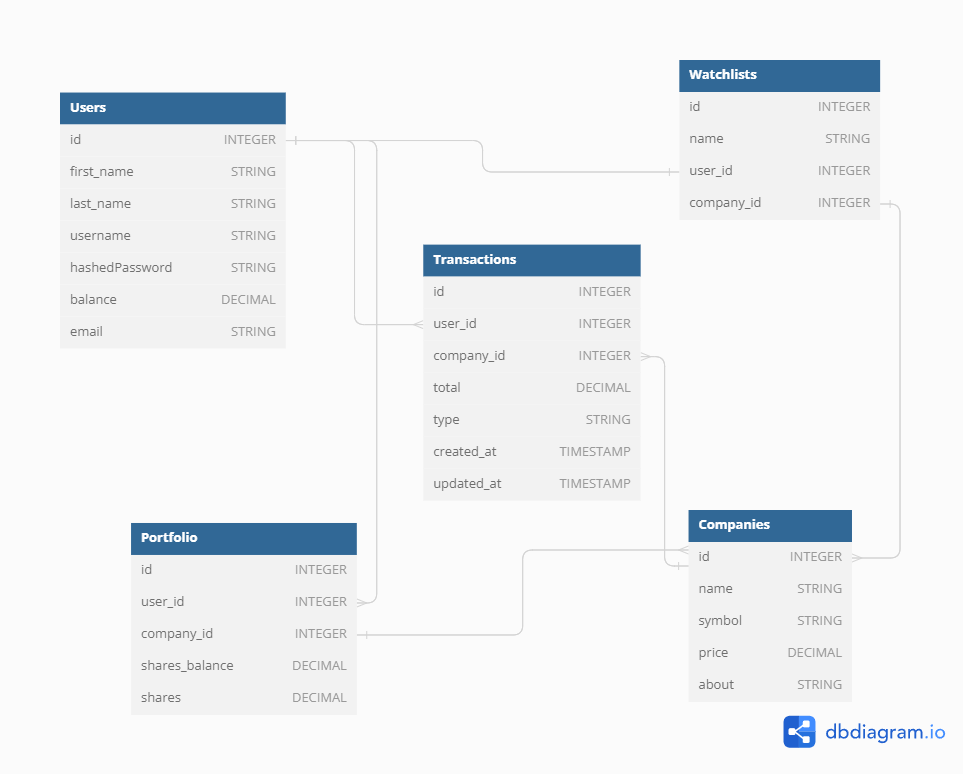
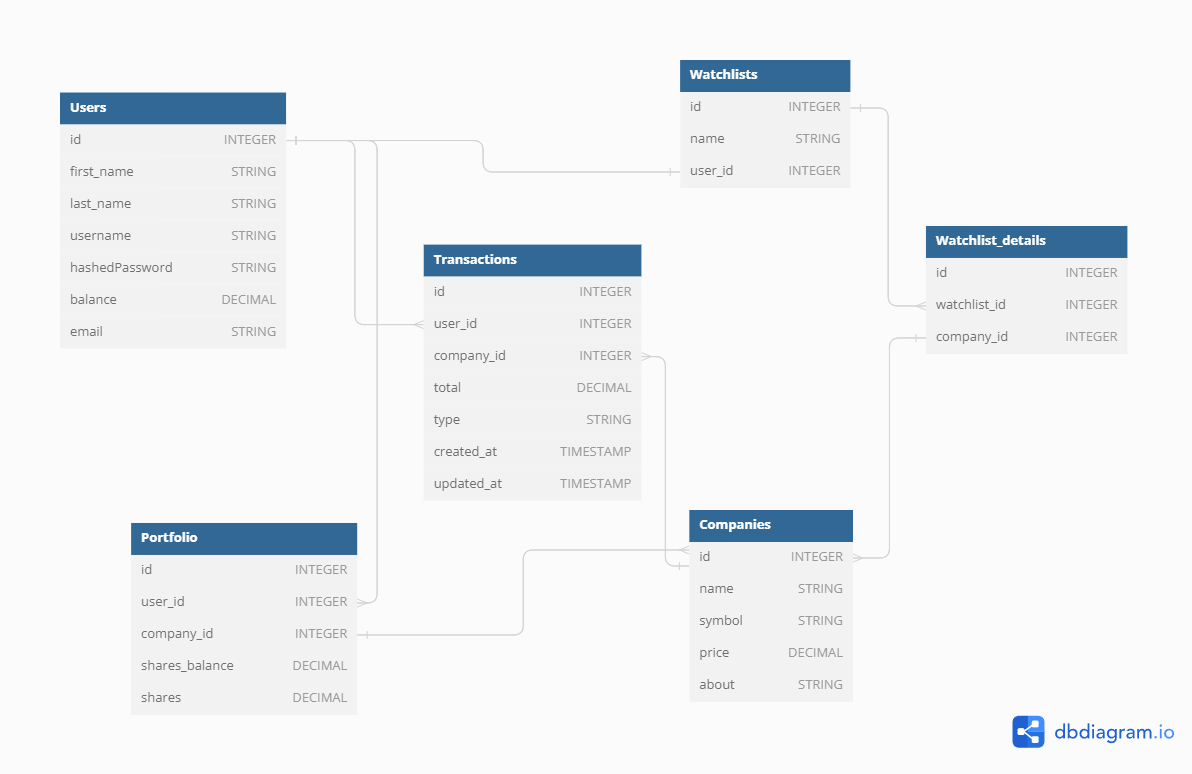
fixing database schema and models/seeders

diff --git a/app/api/watchlist_routes.py b/app/api/watchlist_routes.py
@@ -14,54 +14,63 @@ watchlist_routes = Blueprint("watchlists", __name__)
 def create_user_watchlist(user_id):
     url = request.url
     name = request.json.get("name")
+    current_user_id = current_user.id
+
+    if user_id == current_user_id:
+        # !set up for new watchlist with name, companies in data
+        watchlists = Watchlist.query.filter(Watchlist.user_id == user_id).all()
+        for i in range(len(watchlists)):
+            watchlist = watchlists[i].to_dict()
+
+            if watchlist["name"] == name:
+                return {"error": "watchlist already exists"}, 400
+
+        new_watchlist2 = Watchlist(name=name, user_id=user_id, company_id="NULL")
 
 
-    # !set up for new watchlist with name, companies in data
-    watchlists = Watchlist.query.filter(Watchlist.user_id == user_id).all()
-    for i in range(len(watchlists)):
-        watchlist = watchlists[i].to_dict()
-        print("watchlist ------->", watchlist)
-        if watchlist["name"] == name:
-            return {"error": "watchlist already exists"}, 400
+        db.session.add(new_watchlist2)
+        db.session.commit()
 
-    new_watchlist2 = Watchlist(name=name, user_id=user_id, company_id="NULL")
+        return new_watchlist2.to_dict()
 
-
-    db.session.add(new_watchlist2)
-    db.session.commit()
-
-    return new_watchlist2.to_dict()
+    return {"error": "Unauthorized"}, 403
 
 
 
 # Add a Company to a User's Watchlist By Watchlist Name
 
-#                           /watchlists/watchlist_name/add
+#                           /watchlists/1/add
 #                           /
-@watchlist_routes.route("/<int:>/add", methods=["POST"])
+@watchlist_routes.route("/<int:user_id>/add", methods=["POST"])
 @login_required
-def add_to_user_watchlist(watchlist_id):
-    company_id = request.json.get("company_id")
-    watchlist = Watchlist.query.filter(Watchlist.company_id == company_id).first()
-    watchlist_name = watchlist.name
-    user_id = current_user.id
+def add_to_user_watchlist(user_id):
+    new_company_id = request.json.get("company_id")
+    watchlist_name = request.json.get("name")
+    current_user_id = current_user.id
 
-    #cannot add same company to existing watchlist
-    watchlists = Watchlist.query.filter(Watchlist.user_id == user_id).all()
-    for i in range(len(watchlists)):
-        watchlist_check = watchlists[i].to_dict()
-        if watchlist_check["company_id"] == company_id:
-            return {"error": "Your watchlist already includes this Company"}, 400
+    #authorization check
+    if user_id == current_user_id:
 
-    new_company_to_watch = Watchlist(
-        name = watchlist_name,
-        user_id = user_id,
-        company_id = company_id
-    )
+        #cannot add same company to existing watchlist
+        watchlists = Watchlist.query.filter(Watchlist.user_id == user_id).all()
+        for i in range(len(watchlists)):
+            watchlist_check = watchlists[i].to_dict()
+            print("existing company id in watchlist: ", watchlist_check["company_id"])
+            print("companyId: ", new_company_id)
 
-    db.session.add(new_company_to_watch)
-    db.session.commit()
+            if watchlist_check["company_id"] == new_company_id:
+                print("looooook!")
+                return {"error": "Your watchlist already includes this Company"}, 400
 
-    print(new_company_to_watch)
+        new_company_to_watch = Watchlist(
+            name = watchlist_name,
+            user_id = user_id,
+            company_id = new_company_id
+        )
 
-    return new_company_to_watch.to_dict()
+        # db.session.add(new_company_to_watch)
+        # db.session.commit()
+
+        return new_company_to_watch.to_dict()
+
+    return {"error": "Unauthorized"}, 403

diff --git a/app/seeds/watchlist_details.py b/app/seeds/watchlist_details.py
@@ -1,0 +1,60 @@
+
+from app.models import db, Watchlist_details, environment, SCHEMA
+from sqlalchemy.sql import text
+
+
+# Adds watchlists, you can add other watchlists here if you want
+def seed_watchlist_details():
+    demo_watchlist_details1 = Watchlist_details(
+        watchlist_id=1,
+        company_id=1
+    )
+    demo_watchlist_details2 = Watchlist_details(
+        watchlist_id=2,
+        company_id=2
+    )
+    demo_watchlist_details3 = Watchlist_details(
+        watchlist_id=3,
+        company_id=3
+    )
+    demo_watchlist_details4 = Watchlist_details(
+        watchlist_id=4,
+        company_id=4
+    )
+    demo_watchlist_details5 = Watchlist_details(
+        watchlist_id=5,
+        company_id=5
+    )
+    demo_watchlist_details6 = Watchlist_details(
+        watchlist_id=6,
+        company_id=6
+    )
+    demo_watchlist_details7 = Watchlist_details(
+        watchlist_id=7,
+        company_id=7
+    )
+
+    db.session.add(demo_watchlist_details1)
+    db.session.add(demo_watchlist_details2)
+    db.session.add(demo_watchlist_details3)
+    db.session.add(demo_watchlist_details4)
+    db.session.add(demo_watchlist_details5)
+    db.session.add(demo_watchlist_details6)
+    db.session.add(demo_watchlist_details7)
+    db.session.commit()
+
+
+# Uses a raw SQL query to TRUNCATE or DELETE the users table. SQLAlchemy doesn't
+# have a built in function to do this. With postgres in production TRUNCATE
+# removes all the data from the table, and RESET IDENTITY resets the auto
+# incrementing primary key, CASCADE deletes any dependent entities.  With
+# sqlite3 in development you need to instead use DELETE to remove all data and
+# it will reset the primary keys for you as well.
+def undo_watchlist_details():
+    if environment == "production":
+        db.session.execute(
+            f"TRUNCATE table {SCHEMA}.watchlist_details RESTART IDENTITY CASCADE;")
+    else:
+        db.session.execute(text("DELETE FROM watchlist_details"))
+
+    db.session.commit()

diff --git a/app/seeds/__init__.py b/app/seeds/__init__.py
@@ -4,6 +4,7 @@ from .companies import seed_companies, undo_companies
 from .transactions import seed_transactions, undo_transactions
 from .user_stocks import seed_user_stocks, undo_user_stocks
 from .watchlists import seed_watchlists, undo_watchlists
+from .watchlist_details import seed_watchlist_details, undo_watchlist_details
 
 from app.models.db import db, environment, SCHEMA
 
@@ -20,29 +21,32 @@ def seed():
         # command, which will  truncate all tables prefixed with
         # the schema name (see comment in users.py undo_users function).
         # Make sure to add all your other model's undo functions below
+        undo_watchlist_details()
         undo_watchlists()
         undo_transactions()
         undo_user_stocks()
         undo_companies()
         undo_users()
     seed_users()
-    # Add other seed functions here
     seed_companies()
     seed_user_stocks()
     seed_transactions()
     seed_watchlists()
+    seed_watchlist_details()
 
 
 # Creates the `flask seed undo` command
 @seed_commands.command('undo')
 def undo():
     if environment == "production":
+        db.session.execute(f"TRUNCATE table {SCHEMA}.watchlist_details RESTART IDENTITY CASCADE;")
         db.session.execute(f"TRUNCATE table {SCHEMA}.watchlists RESTART IDENTITY CASCADE;")
         db.session.execute(f"TRUNCATE table {SCHEMA}.transactions RESTART IDENTITY CASCADE;")
         db.session.execute(f"TRUNCATE table {SCHEMA}.user_stocks RESTART IDENTITY CASCADE;")
         db.session.execute(f"TRUNCATE table {SCHEMA}.companies RESTART IDENTITY CASCADE;")
         db.session.execute(f"TRUNCATE table {SCHEMA}.users RESTART IDENTITY CASCADE;")
     else:
+        db.session.execute("DELETE FROM watchlist_details")
         db.session.execute("DELETE FROM watchlists")
         db.session.execute("DELETE FROM transactions")
         db.session.execute("DELETE FROM user_stocks")

diff --git a/app/seeds/watchlists.py b/app/seeds/watchlists.py
@@ -6,19 +6,19 @@ from sqlalchemy.sql import text
 # Adds watchlists, you can add other watchlists here if you want
 def seed_watchlists():
     demo_watchlist1 = Watchlist(
-        user_id=1, name='Companies to Watch1', company_id=1)
+        user_id=1, name='Companies to Watch1')
     demo_watchlist2 = Watchlist(
-        user_id=2, name='Companies to Watch2', company_id=2)
+        user_id=2, name='Companies to Watch2')
     demo_watchlist3 = Watchlist(
-        user_id=3, name='Companies to Watch3', company_id=3)
+        user_id=3, name='Companies to Watch3')
     demo_watchlist4 = Watchlist(
-        user_id=4, name='Companies to Watch4', company_id=4)
+        user_id=4, name='Companies to Watch4')
     demo_watchlist5 = Watchlist(
-        user_id=5, name='Companies to Watch5', company_id=5)
+        user_id=5, name='Companies to Watch5')
     demo_watchlist6 = Watchlist(
-        user_id=6, name='Companies to Watch6', company_id=6)
+        user_id=6, name='Companies to Watch6')
     demo_watchlist7 = Watchlist(
-        user_id=7, name='Companies to Watch7', company_id=7)
+        user_id=7, name='Companies to Watch7')
 
     db.session.add(demo_watchlist1)
     db.session.add(demo_watchlist2)

diff --git a/app/models/watchlist_details.py b/app/models/watchlist_details.py
@@ -1,0 +1,24 @@
+from .db import db, environment, SCHEMA, add_prefix_for_prod
+
+
+class Watchlist_details(db.Model):
+    __tablename__ = "watchlists_details"
+
+    if environment == "production":
+        __table_args__ = {"schema": SCHEMA}
+
+    id = db.Column(db.Integer, primary_key=True)
+    watchlist_id = db.Column(db.Integer, db.ForeignKey(add_prefix_for_prod("watchlists.id")))
+    company_id = db.Column(
+        db.Integer, db.ForeignKey(add_prefix_for_prod("company.id")), nullable=False
+    )
+
+    watchlists = db.relationship('Watchlist', backref='watchlist_details')
+    company = db.relationship('Company', backref='watchlist_details')
+
+    def to_dict(self):
+        return {
+            "id": self.id,
+            "watchlist_id": self.watchlist_id,
+            "company_id": self.company_id
+        }

diff --git a/app/models/watchlist.py b/app/models/watchlist.py
@@ -12,14 +12,12 @@ class Watchlist(db.Model):
     user_id = db.Column(
         db.Integer, db.ForeignKey(add_prefix_for_prod("users.id")), nullable=False
     )
-    company_id = db.Column(
-        db.Integer, db.ForeignKey(add_prefix_for_prod("companies.id")), nullable=True
-    )
+
+    watchlist_details = db.relationship('Watchlist_details', backref='watchlists')
 
     def to_dict(self):
         return {
             "id": self.id,
             "name": self.name,
-            "user_id": self.user_id,
-            "company_id": self.company_id or "NULL",
+            "user_id": self.user_id
         }

diff --git a/app/models/company.py b/app/models/company.py
@@ -16,7 +16,7 @@ class Company(db.Model):
     # Relationships
     user_stocks = db.relationship('UserStock', backref='company')
     transactions = db.relationship('Transaction', backref='company')
-    watchlist_items = db.relationship('Watchlist', backref='company')
+    watchlist_details = db.relationship('Watchlist_details', backref='company')
 
 
     def to_dict(self):

diff --git a/app/models/__init__.py b/app/models/__init__.py
@@ -4,4 +4,5 @@ from .transaction import Transaction
 from .company import Company
 from .user_stock import UserStock
 from .watchlist import Watchlist
+from .watchlist_details import Watchlist_details
 from .db import environment, SCHEMA
